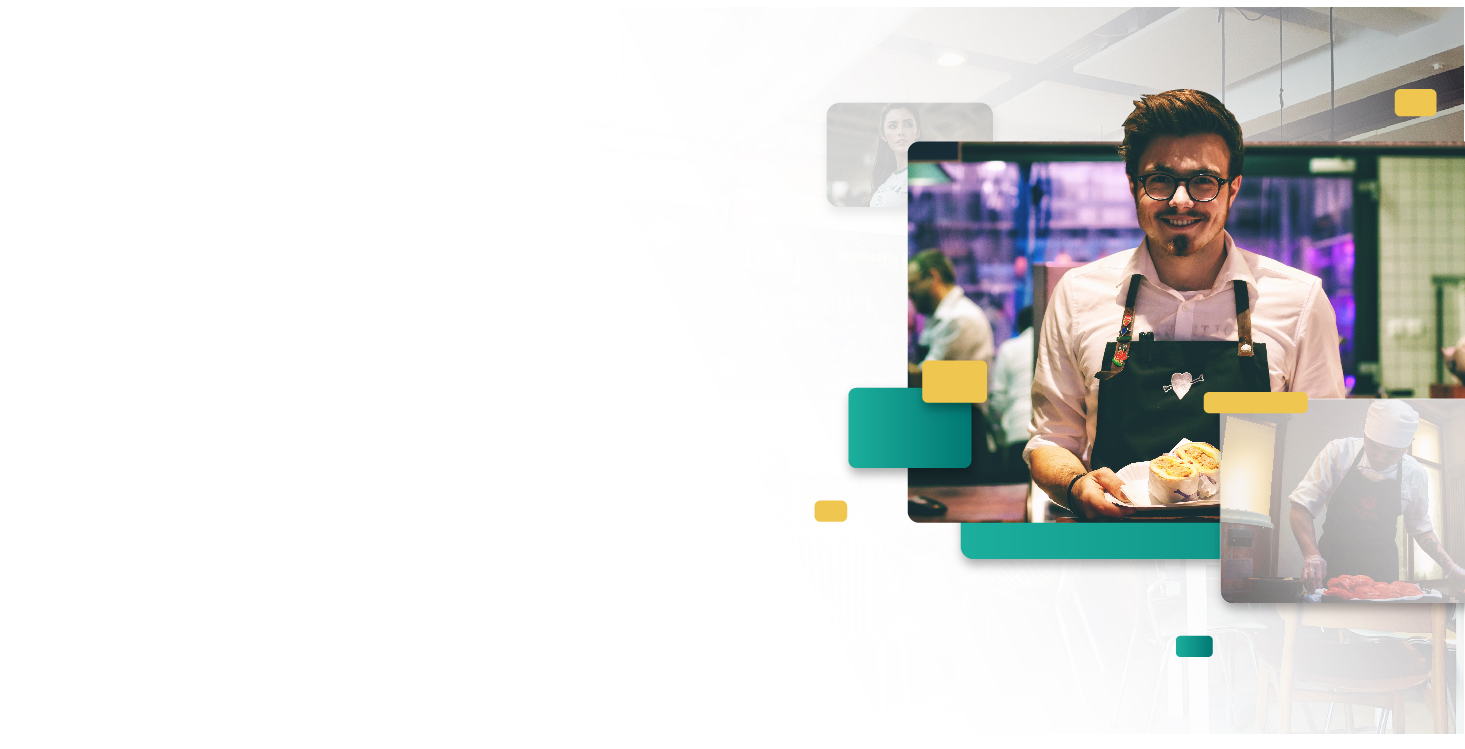
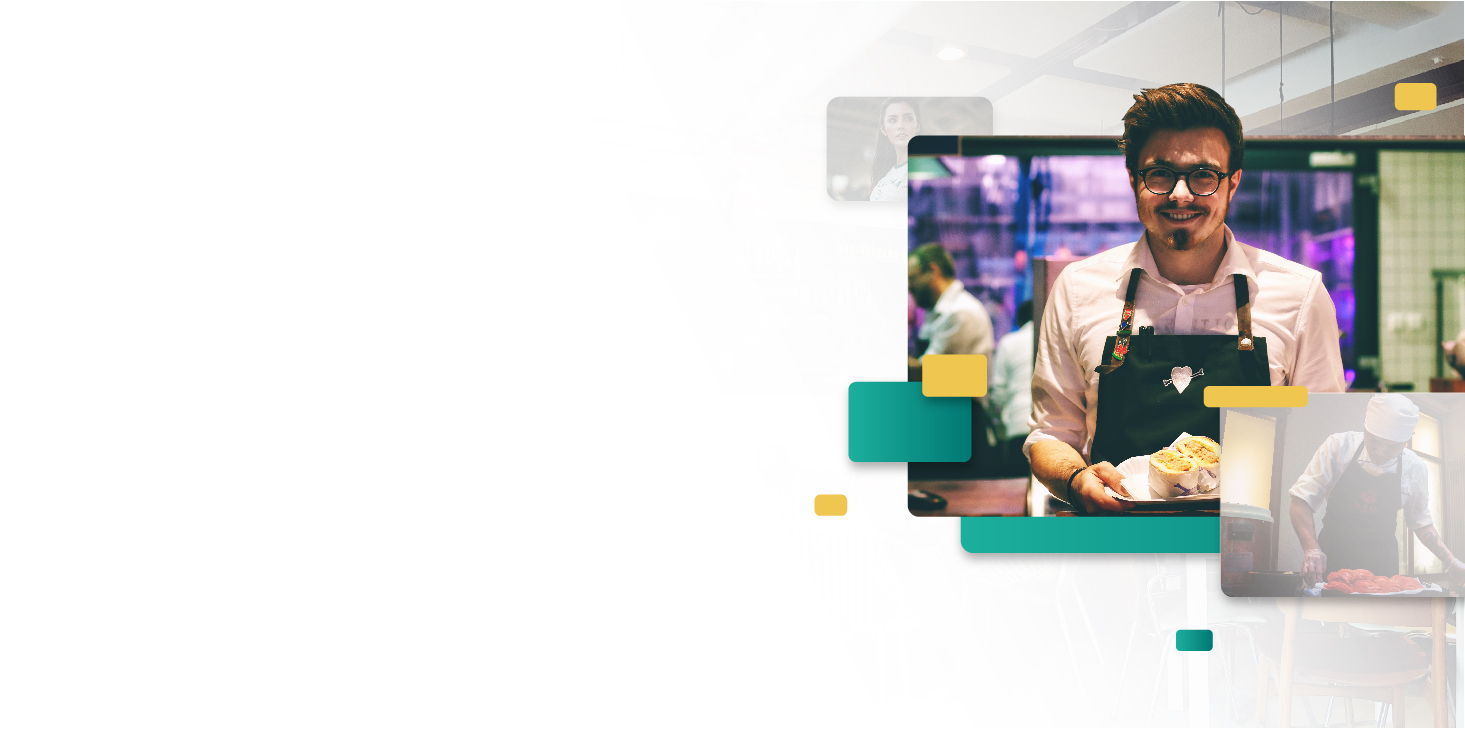
edit styles,pages

diff --git a/src/pages/Home/Home.js b/src/pages/Home/Home.js
@@ -9,7 +9,7 @@ import Business from 'pages/Business/Business'
 import Valedor from 'pages/Valedor/Valedor'
 import StylesTheme from './StylesTheme'
 import Logo from 'images/logo-appbar.png'
-import Christmas from 'images/christmas.png'
+import Green from 'images/valedor-green.jpg'
 import Map from 'images/location-map.png'
 import Hero from 'images/valedor-hero.jpg'
 import Styles from './Styles'
@@ -82,7 +82,7 @@ const Home = (props) => {
       </div>
       <div>
         <div>
-          <img src={Christmas} alt="logo"></img>
+          <img src={Green} alt="logo"></img>
         </div>
         <div></div>
       </div>

diff --git a/src/pages/Home/Styles.js b/src/pages/Home/Styles.js
@@ -20,13 +20,13 @@ const Styles = makeStyles(() => ({
     position: 'absolute',
     left: '88%',
     top: '20px',
-    BoxShadow: '-1px 3px 13px -3px rgba(8,8,8,8)',
     backgroundColor: '#efc64f',
     color: 'white',
     textTransform: 'capitalize',
     fontSize: '16px',
     padding: '4px 10px',
-    borderRadius: '20px'
+    borderRadius: '20px',
+    BoxShadow: '-1px 3px 13px -3px rgba(8,8,8,8)'
   },
   ContentLogo: {
     width: '16%',

diff --git a/src/pages/Home/StylesTheme.js b/src/pages/Home/StylesTheme.js
@@ -22,7 +22,7 @@ const StylesTheme = createMuiTheme({
         fontSize: '18px'
       },
       textColorInherit: {
-        color: '#2d6a4f'
+        color: '#007772'
       }
     },
     MuiAppBar: {
